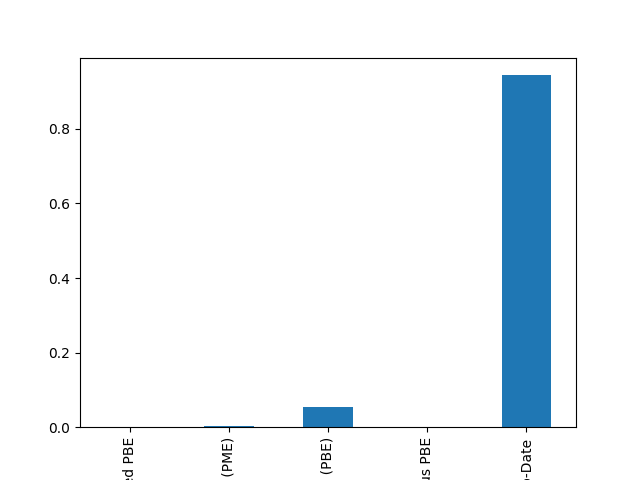
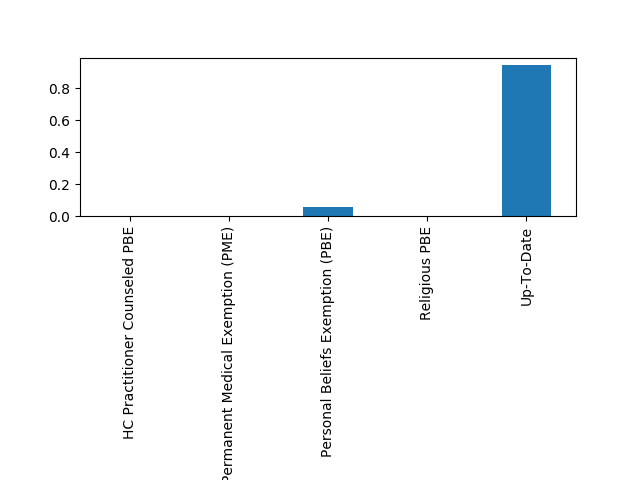
new data run

diff --git a/course3/assignments/about_a_dataset/about_a_dataset.py b/course3/assignments/about_a_dataset/about_a_dataset.py
@@ -25,9 +25,10 @@ print df_2013.groupby('CATEGORY')['PERCENT'].mean()
 	# of declare religious exemption, many of these students have neither
 	# because they were entered into the system in the pre-Jan PBE time 
 mean_2013= df_2013.groupby('CATEGORY')['PERCENT'].mean()
-a= mean_2013.plot.bar()
+mean_2013.plot.bar()
+plt.subplots_adjust(bottom=.55)
 plt.savefig('Figure1_2013')
-
+plt.show()
 
 df_2014 = df[df['SCHOOL YEAR'] == '2014-2015']
 print df_2014.groupby('CATEGORY')['PERCENT'].mean()
@@ -38,7 +39,8 @@ print df_2014.groupby('CATEGORY')['PERCENT'].mean()
 		# 1.5% declared religious exemption 
 		# the rest <0.01% where declared permanent medical exemption
 mean_2014= df_2014.groupby('CATEGORY')['PERCENT'].mean()
-b= mean_2014.plot.bar()
+mean_2014.plot.bar()
+plt.subplots_adjust(bottom=.55)
 plt.savefig('Figure1_2014')
 
 
@@ -48,7 +50,8 @@ print df_2015.groupby('CATEGORY')['PERCENT'].mean()
 	# similar breakdown of religious/health care counseled PBE 
 	# new field for overdue 0.7%
 mean_2015= df_2015.groupby('CATEGORY')['PERCENT'].mean()
-c=mean_2015.plot.bar()
+mean_2015.plot.bar()
+plt.subplots_adjust(bottom=.55)
 plt.savefig('Figure1_2015')
 
 
@@ -59,6 +62,8 @@ df_uptodate = df[df['CATEGORY'] == 'Up-To-Date']
 mean_uptodate= df_uptodate .groupby('SCHOOL YEAR')['PERCENT'].mean()
 d= mean_uptodate.plot.bar()
 d.set_ylim(.9,1)
+
+
 plt.savefig('Figure1_uptodate')
 
 
